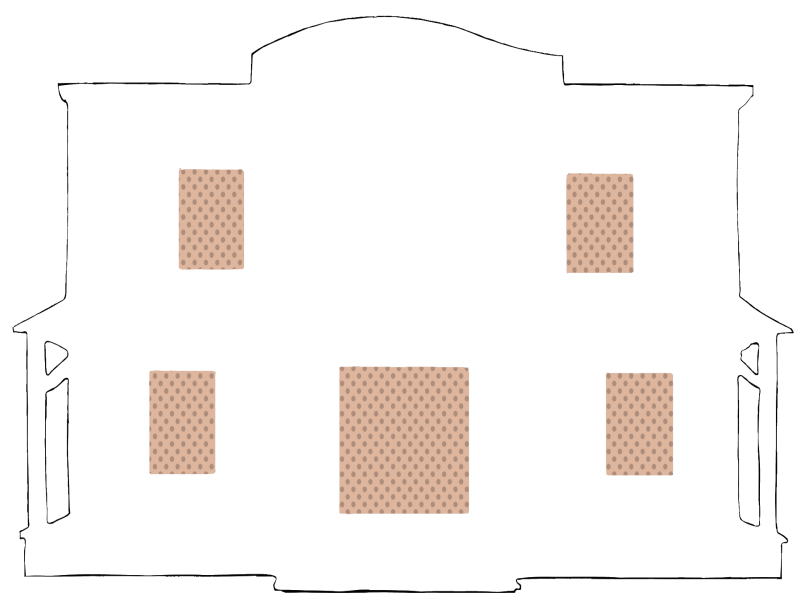
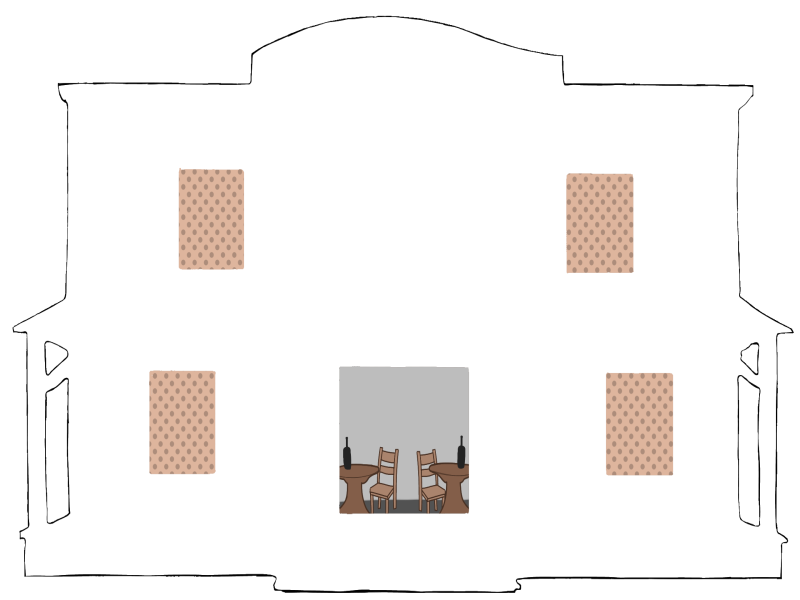
Inocent behavior and code updates

Changed region(s): [[0.4062, 0.6, 0.5938, 0.87]]

diff --git a/Game.h b/Game.h
@@ -13,9 +13,11 @@ private:
 	sf::RenderWindow* _wnd;
 	PlayerCrossHair* _player;
 	Enemy *_enemies;
+	Inocent* _inocents;
 	Scenario* _scene;
 	int EnemySize;
 	sf::Clock respawnT;
+	sf::Clock AliveT;
 	
 
 
@@ -24,11 +26,12 @@ public:
 
 	Juego() {
 		//sf::VideoMode desktopmode = sf::VideoMode::getDesktopMode(); ventanas ajustables no se manejan muy bien
-		_wnd = new sf::RenderWindow(sf::VideoMode(800,600), "clicker shooter", sf::Style::Titlebar | sf::Style::Close);
+		_wnd = new sf::RenderWindow(sf::VideoMode(800,800), "clicker shooter", sf::Style::Titlebar | sf::Style::Close);
 		_scene = new Scenario();
 		_player = new PlayerCrossHair();
 		EnemySize = 5; //aqui determinas el monto de enemigos (tiene otros usos aparte del monto de inicializacion como el index de respawn aunque el pocicionamiento es manual)
 		_enemies = new Enemy[EnemySize];
+		_inocents = new Inocent[EnemySize];
 		std::srand(static_cast<unsigned>(std::time(nullptr))); //esto lo consegui con IA
 
 
@@ -38,6 +41,7 @@ public:
 		_enemies[2].SetOrigin(-5000, -1500);
 		_enemies[3].SetOrigin(-3000, -3500);
 		_enemies[4].SetOrigin(-5500, -3500);
+		_inocents[0].SetOrigin(-5500, -3500);
 
 
 
@@ -80,6 +84,7 @@ public:
 		//std::cout << "Sprite position in world coordinates: x = " << _enemies[0].GetPos().x << ", y = " << _enemies[0].GetPos().y << std::endl; //(debug tool)
 
 		Respawns();
+		Despawn();
 
 	}
 
@@ -101,13 +106,15 @@ public:
 		if (respawnT.getElapsedTime().asSeconds() >= respawnDelay.asSeconds()) {
 
 			respawnT.restart();
-			std::srand(static_cast<unsigned>(std::time(nullptr)));
+
 
 				// imprime info de respawn, es puramente para testeo
 				std::cout << "Respawning enemy at index " << randomIndex << " in " << respawnDelay.asSeconds() << " seconds." << std::endl;
 
 				// Revive al enemigo con el indice correspondiente
+
 				_enemies[randomIndex].Revive();
+				_inocents[randomIndex].Revive();
 
 
 				//informa si se sobrepasa, es puramente para testeo pero raramente hubo casos que paso
@@ -117,6 +124,19 @@ public:
 		}
 	}
 
+	void Despawn() {
+
+
+		for (size_t i = 0; i < 5; i++) {
+
+			if (_enemies[i].TimeAlive() > 5) {
+				_enemies[i].Kill();
+				AliveT.restart();
+			}
+		}
+	}
+
+
 	void Shoot() {
 		//check colitions and logic (tomado del vid de twich)
 		sf::Vector2f playerPos = _player->GetPos();
@@ -124,9 +144,10 @@ public:
 			if (_enemies[i].IsAlive()) {
 				if (_enemies[i].OnTop(playerPos.x, playerPos.y))
 					_enemies[i].Kill();
+				if (_inocents[i].OnTop(playerPos.x, playerPos.y))
+					_inocents[i].Kill();
 			}
 		}
-
 	}
 
 
@@ -134,11 +155,17 @@ public:
 	void draw() {
 		_wnd->clear(sf::Color::Cyan);
 		_scene->BuildBa(_wnd);
-		for (int i = 0; i < 5; i++) {
+		
+		for (size_t i = 0; i < EnemySize; i++) {
 			if(_enemies[i].IsAlive())
 			_enemies[i].Render(_wnd);
 		}
 		_scene->Build(_wnd);
+		for (size_t i = 0; i < EnemySize; i++)
+		{
+			if (_inocents[i].IsAlive()) 
+				_inocents[i].Render(_wnd);
+		}
 		_player->Render(_wnd);
 		_wnd->display();
 

diff --git a/Enemy.h b/Enemy.h
@@ -30,6 +30,10 @@ public:
 		_EnemSpr.setOrigin(x, y);
 	}
 
+	float TimeAlive() {
+		return _clock.getElapsedTime().asSeconds();
+	}
+
 	bool IsAlive() {
 		return _Alive;
 	}
@@ -45,6 +49,7 @@ public:
 
 	void Revive() {
 		_Alive = true;
+		_clock.restart();
 	}
 
 
@@ -66,20 +71,33 @@ class Inocent : public Enemy
 {
 private:
 	sf::Texture _InocentTex;
-	sf::Sprite _InocenteSpr;
+	sf::Sprite _InocentSpr;
+	sf::Clock _clock;
+	bool _Alive;
 
 public:
 
 	Inocent() {
 
-		if (_InocentTex.loadFromFile("filename.png")) {
-			// Set the texture to the sprite
-			_InocenteSpr.setTexture(_InocentTex);
-		}
-		else {
+		_InocentTex.loadFromFile("assets/innocent.png");
+		_InocentSpr.setTexture(_InocentTex);
+		_InocentSpr.setScale(0.10f, 0.10f);
+		_Alive = false;
 
-		}
 	}
 
+	void SetOrigin(float x, float y) {
+
+		_InocentSpr.setOrigin(x, y);
+	}
+
+	void Render(sf::RenderWindow* wnd) {
+		wnd->draw(_InocentSpr);
+	}
+
+	bool OnTop(float x, float y) {
+		sf::FloatRect bounds = _InocentSpr.getGlobalBounds();
+		return bounds.contains(x, y);
+	}
 
 };
